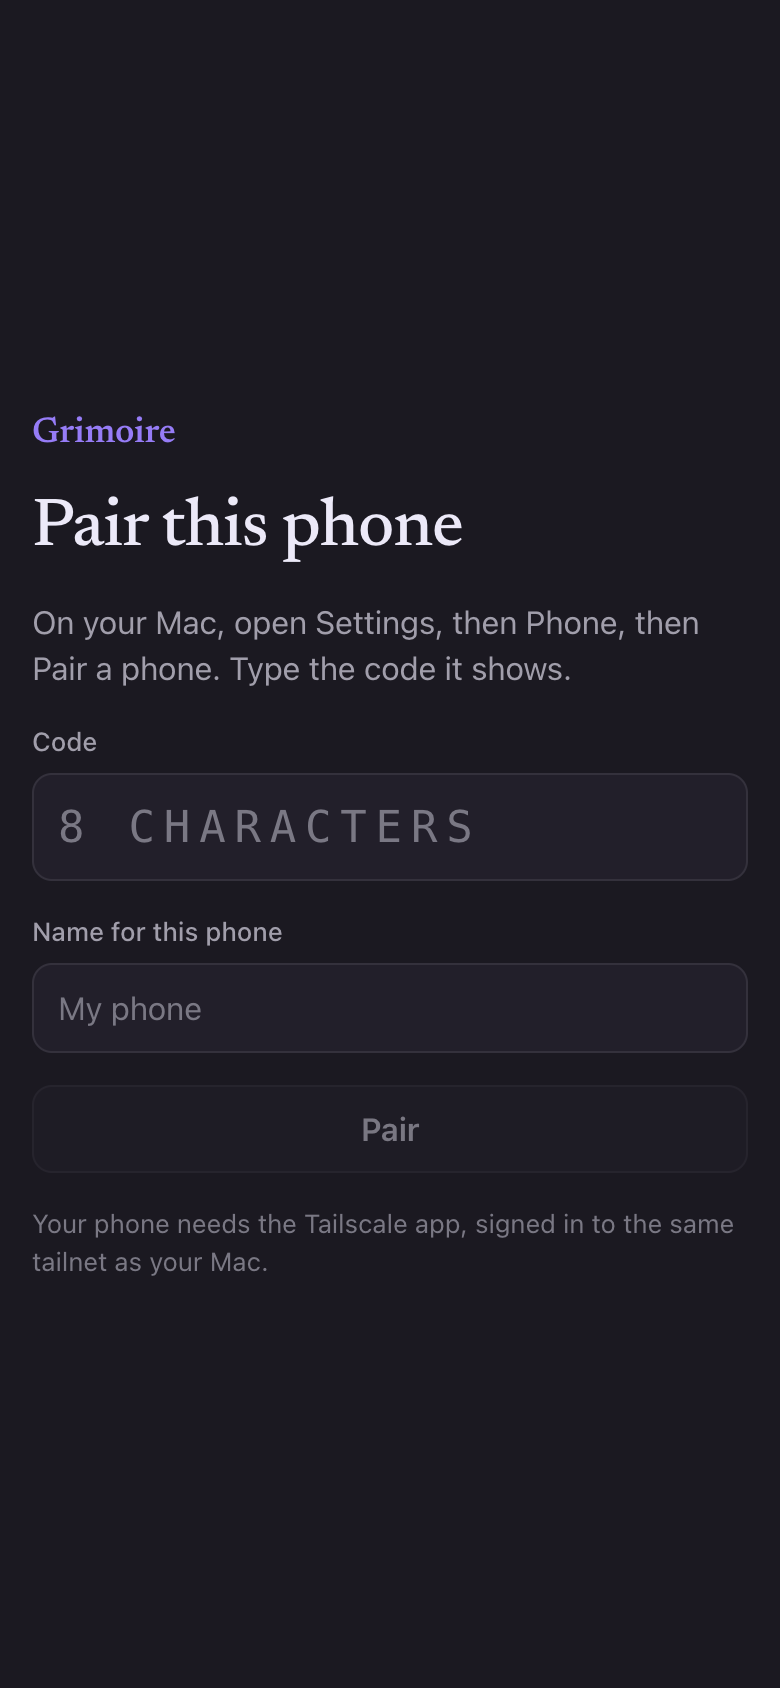
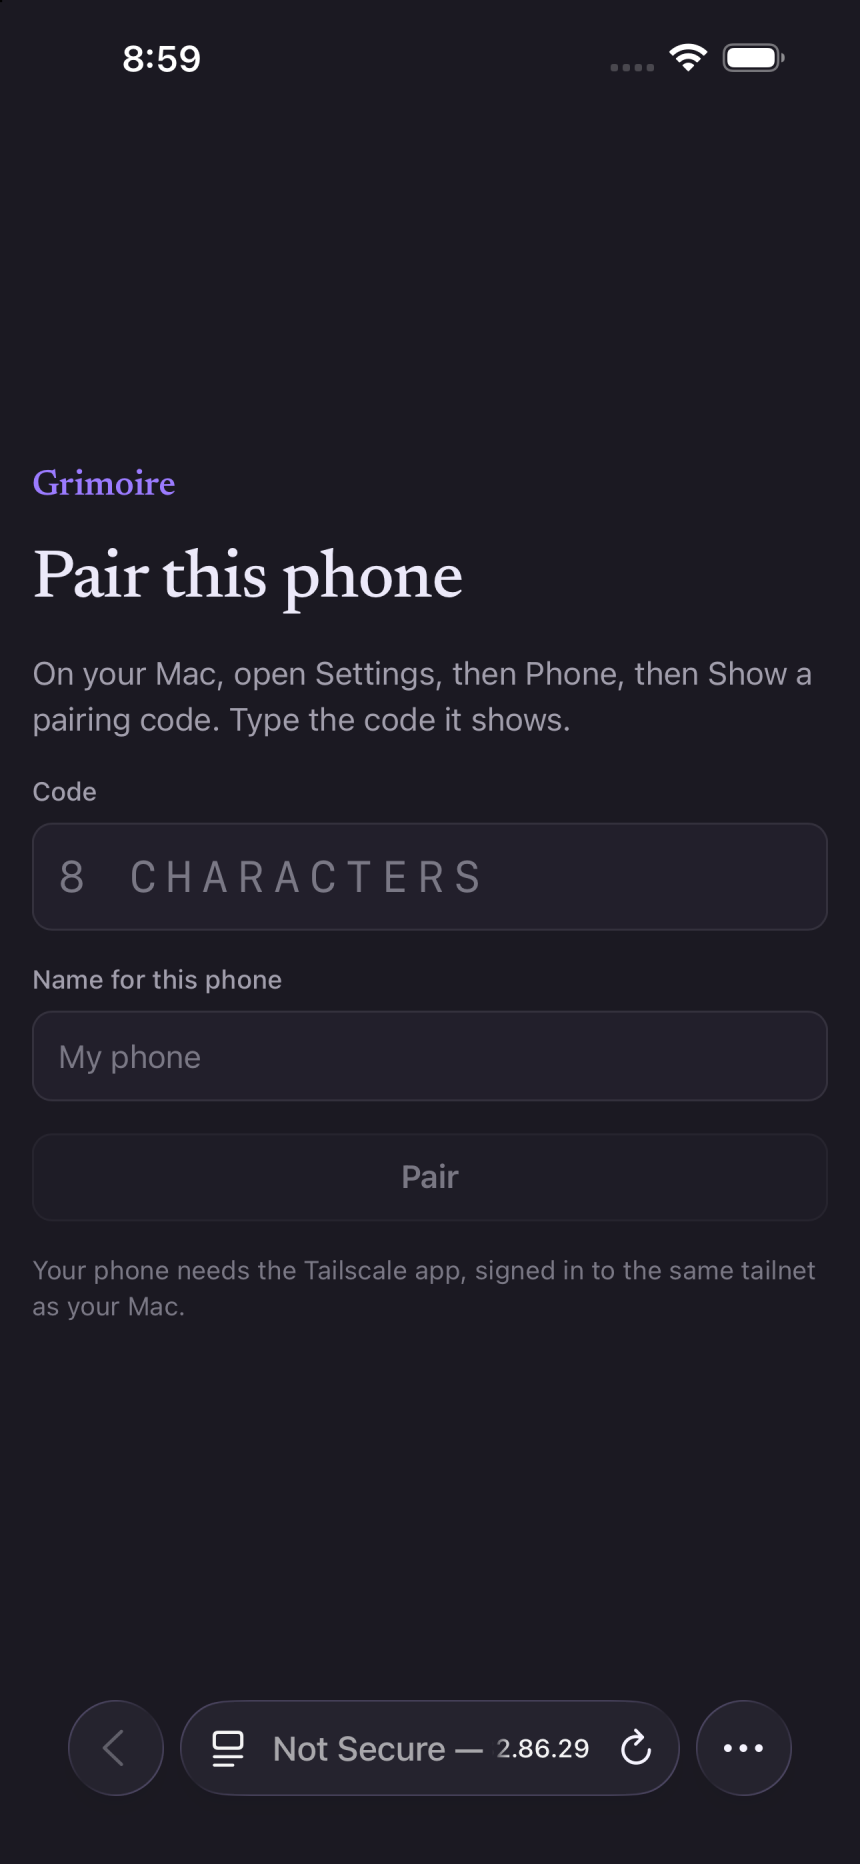
Replace phone screenshots with iOS Simulator captures
Adds a notification banner shot.

diff --git a/docs/phone-companion.md b/docs/phone-companion.md
@@ -6,12 +6,15 @@ alerts when something needs you. Familiars, tools, the vault, and settings stay 
 
 This is the MVP scope. The last section lists what it leaves out.
 
+Screenshots from the iOS Simulator (iPhone 15 Pro Max, Safari), talking to a real Grimoire build over Tailscale:
+
 <table>
   <tr>
-    <td width="25%"><img src="screenshots/phone-pair.png" alt="Pairing screen on the phone"></td>
-    <td width="25%"><img src="screenshots/phone-inbox.png" alt="The inbox on the phone with two questions"></td>
-    <td width="25%"><img src="screenshots/phone-drafts.png" alt="An email draft on the phone in the dark theme"></td>
-    <td width="25%"><img src="screenshots/phone-chat.png" alt="A chat on the phone with a banner saying another familiar replied"></td>
+    <td width="20%"><img src="screenshots/phone-pair.png" alt="Pairing screen on the phone"></td>
+    <td width="20%"><img src="screenshots/phone-inbox.png" alt="The inbox with two questions"></td>
+    <td width="20%"><img src="screenshots/phone-notification.png" alt="A banner saying the Researcher asks a new question"></td>
+    <td width="20%"><img src="screenshots/phone-drafts.png" alt="A Slack draft ready to edit and send"></td>
+    <td width="20%"><img src="screenshots/phone-chat.png" alt="A chat with the Researcher"></td>
   </tr>
 </table>
 
